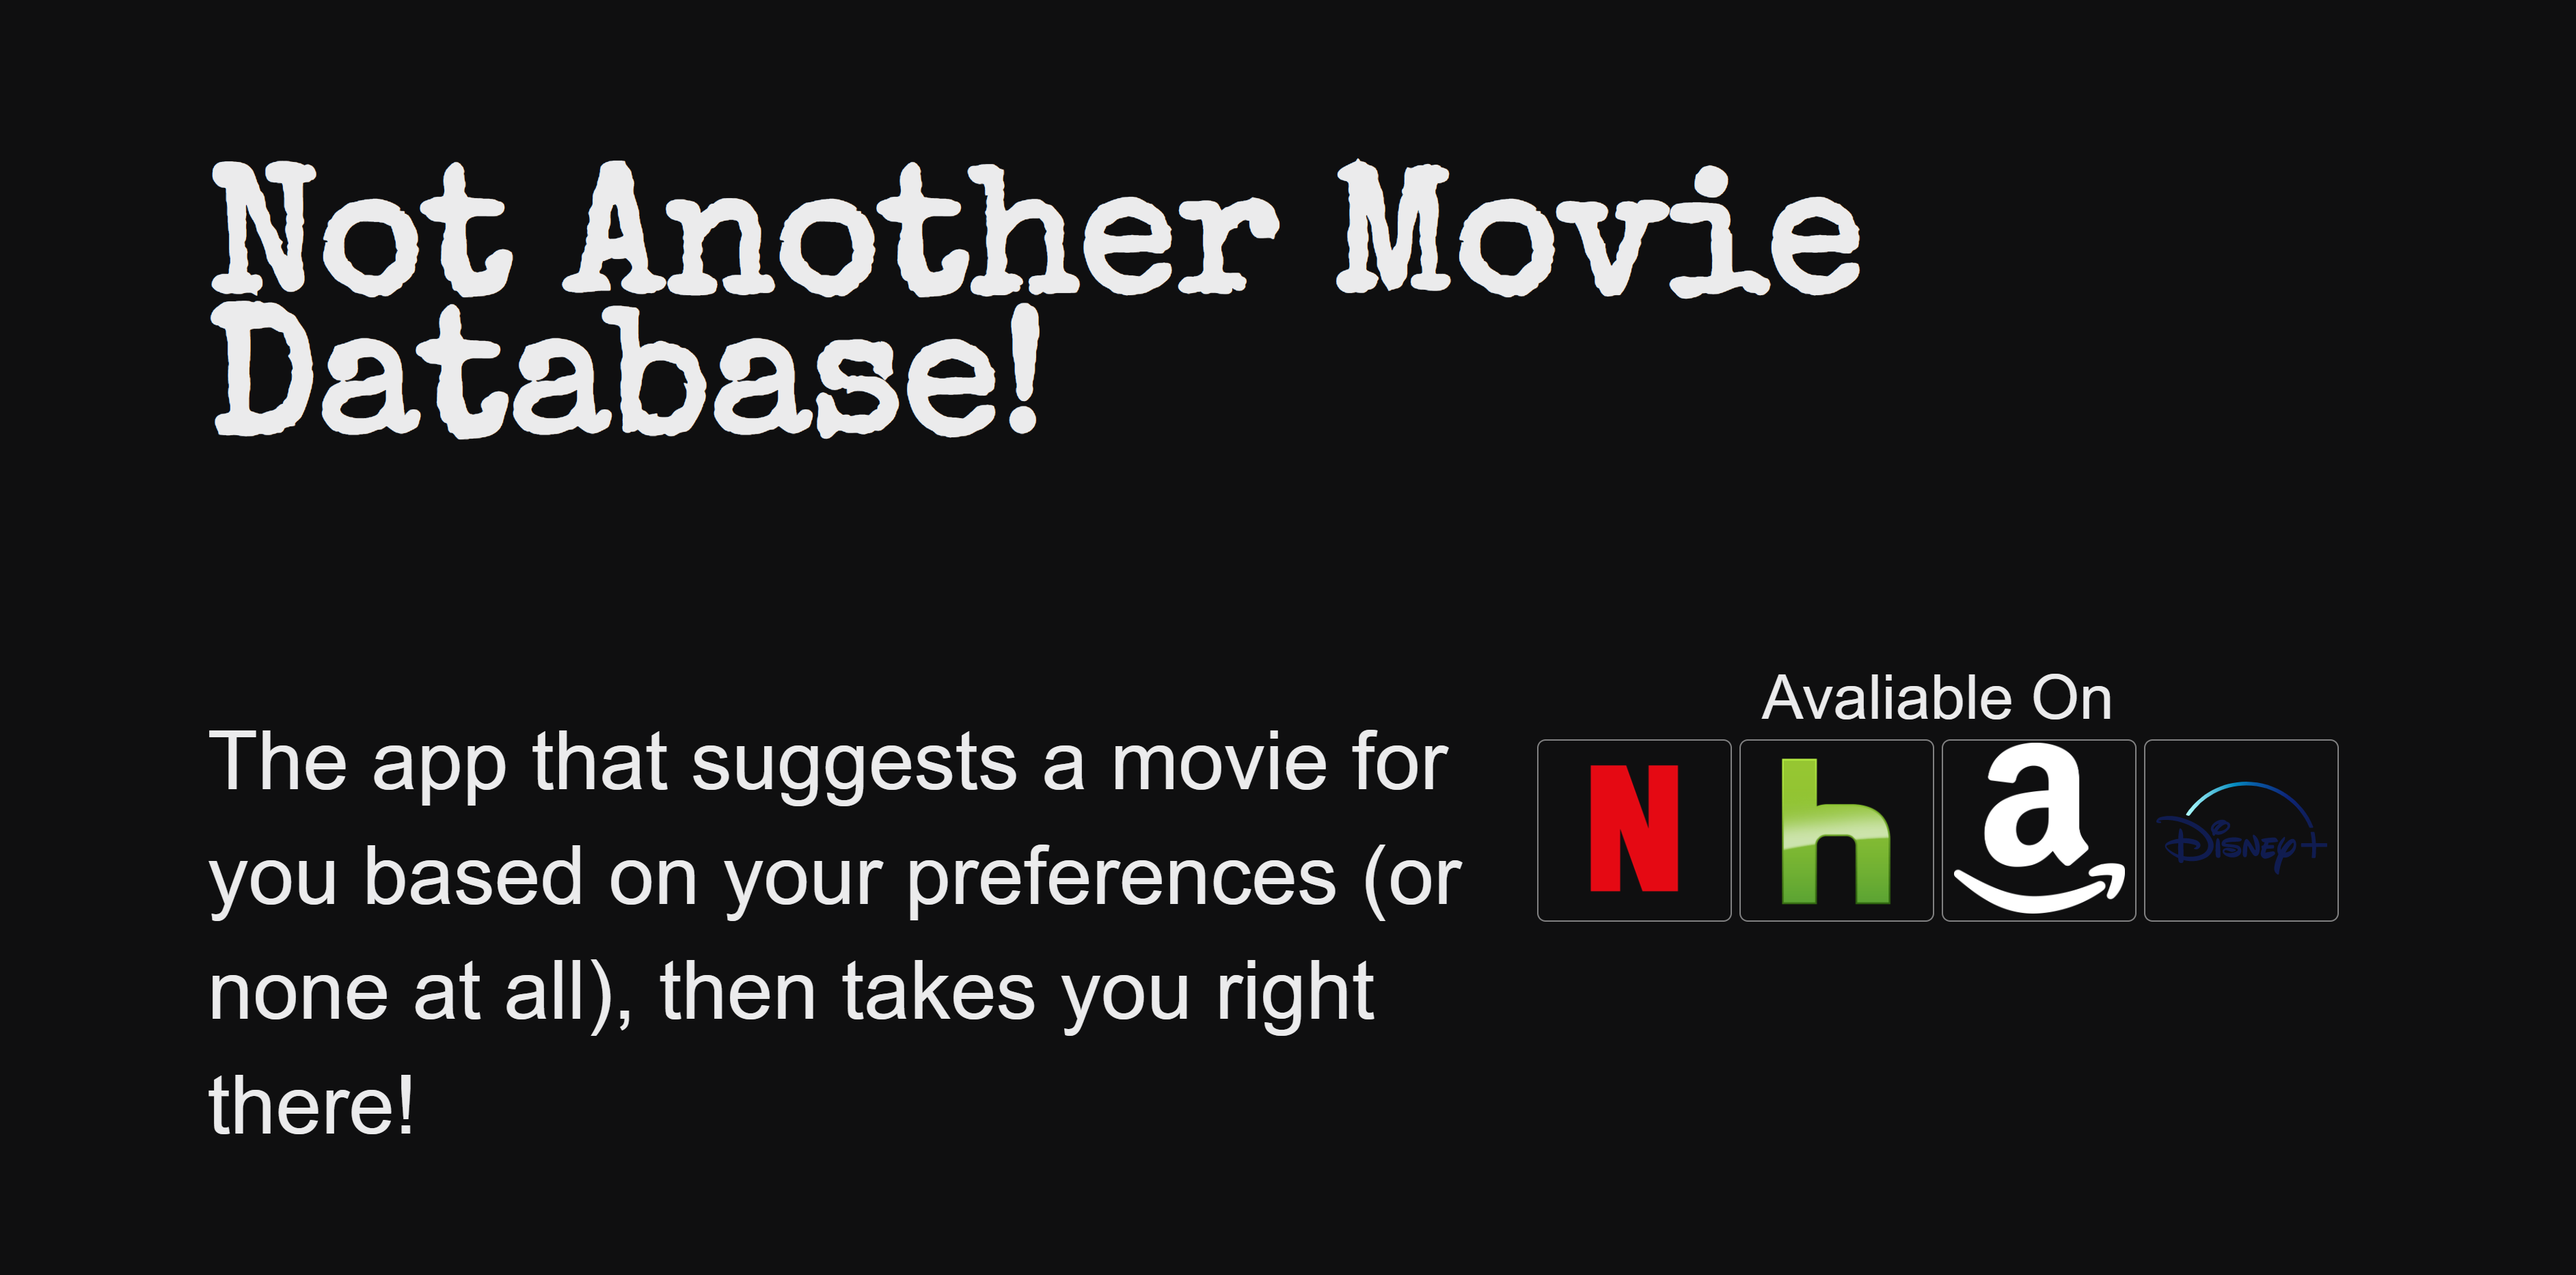
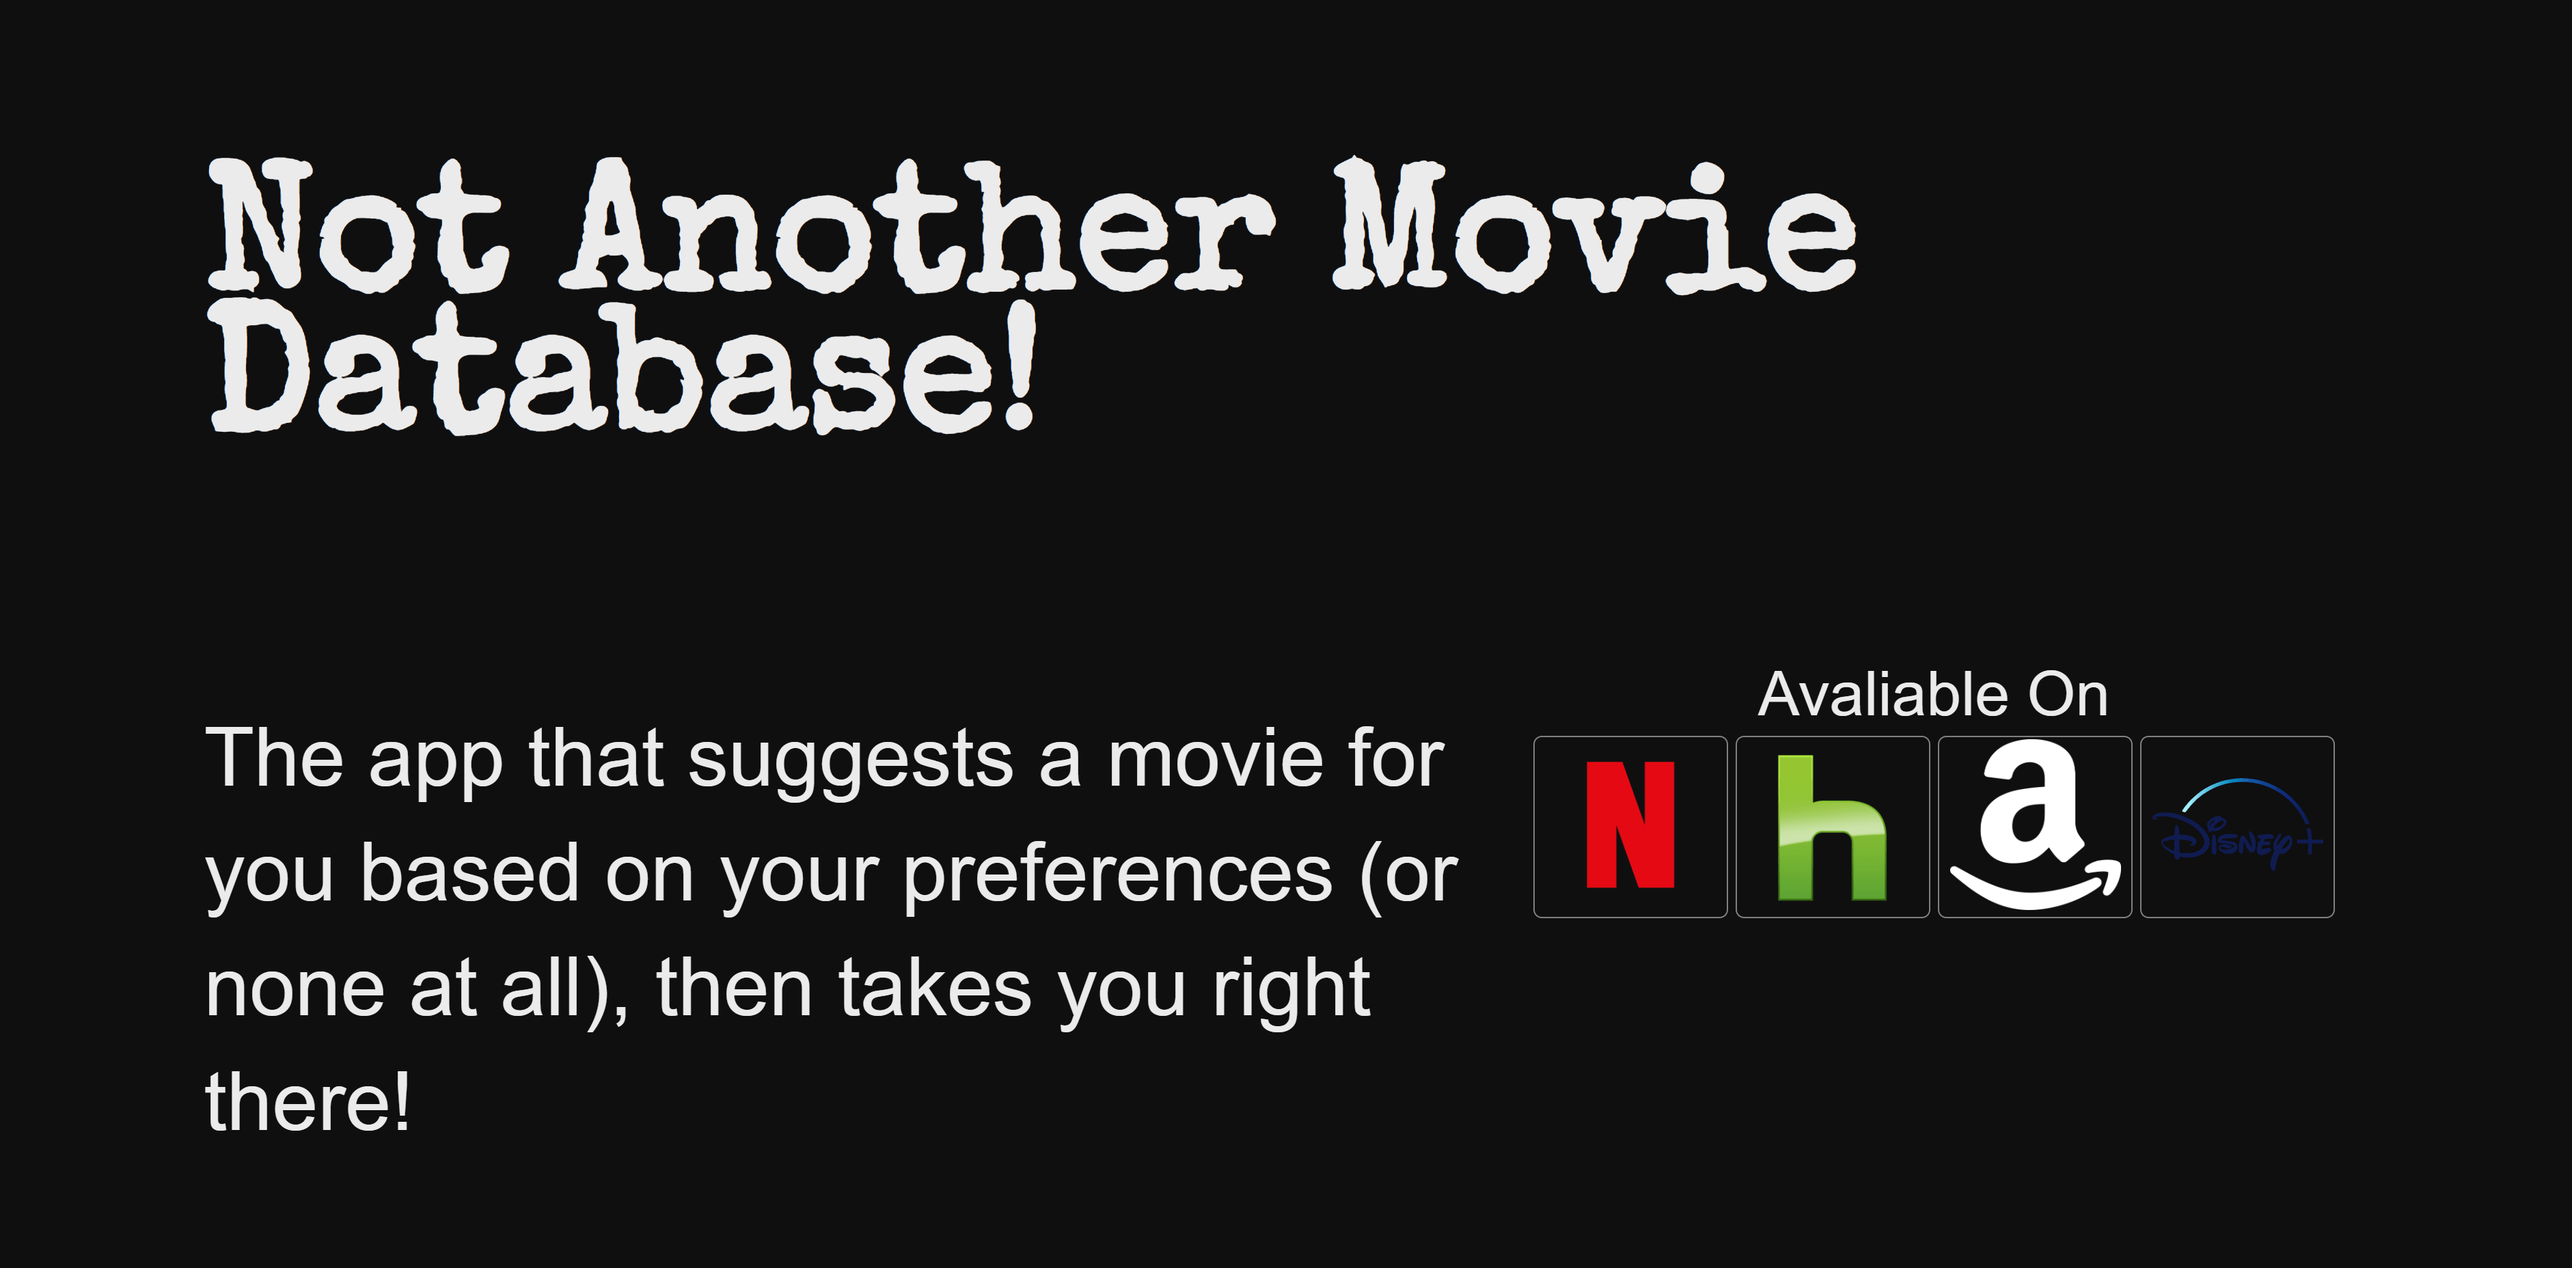
styling photos and hover

diff --git a/components/imageCard.js b/components/imageCard.js
@@ -4,19 +4,22 @@ import Card from '@material-ui/core/Card';
 import CardActionArea from '@material-ui/core/CardActionArea';
 import Grid from '@material-ui/core/Grid';
 import CardMedia from '@material-ui/core/CardMedia';
+import { Typography } from '@material-ui/core';
 
-import Typography from '@material-ui/core/Typography';
-import CardContent from '@material-ui/core/CardContent';
+// import Typography from '@material-ui/core/Typography';
+// import CardContent from '@material-ui/core/CardContent';
 
 const useStyles = makeStyles({
     img: {
         maxWidth: "100%",
-        border: "white"
+        border: "white",
+        objectFit: "cover"
     },
-
-    // CardContent: {
-    //     textAlign: "center",
-    // }
+    hoverText: {
+        color: "white",
+        textAlign: "center",
+        top: "50%"
+    }
 });
   
 export default function imageCard(props) {
@@ -26,27 +29,26 @@ export default function imageCard(props) {
     return (
         <>
             <Grid item sm={6}>
-                <Card className={classes.img} square>
-                    <CardActionArea>
+                <Card square>
+                    <CardActionArea className="picContainer">
                         <a href={props.link}>
-                        <CardMedia
-                            component="img"
-                            alt={props.alt}
-                            image={props.image}
-                            title={props.alt}
-                            
-                        />
-                        </a>
-                        {/* <CardContent>
-                            <Typography gutterBottom variant="h5" component="h2">
-                            Lizard
-                            </Typography>
-                        </CardContent> */}
-                        
+                            <CardMedia
+                                className={classes.img}
+                                component="img"
+                                alt={props.alt}
+                                image={props.image}
+                                title={props.alt}
+                                
+                            />
+                            <div id="hover">
+                                <Typography className={classes.hoverText} varient="h6">
+                                    {props.alt}
+                                </Typography>
+                            </div>
+                        </a>                       
                     </CardActionArea>
                 </Card>
             </Grid>
-
         </>
     );
 }

diff --git a/pages/index.js b/pages/index.js
@@ -6,6 +6,7 @@ import Navbar from '../components/navbar';
 import Footer from '../components/footer';
 import Jumbotron from '../components/jumbotron';
 import ImageCard from '../components/imageCard';
+import { Typography } from '@material-ui/core';
 
 
 const useStyles = makeStyles({
@@ -45,6 +46,8 @@ export default function Home() {
           />
           <ImageCard
           image="/images/newsfeed.png"
+          alt="Oscara, the social media website."
+          link="https://oscara.herokuapp.com/"
           />
         </Grid>
 

diff --git a/components/footer.js b/components/footer.js
@@ -14,7 +14,7 @@ export default function Footer() {
     return(
         <div className={classes.footer}>
             <footer className="footer">
-                <p>DEVELOPED WITH REACT-NEXT-EXPRESS & DESIGNED WITH MATERIAL UI</p>
+                <p>Developed With React-Next-Express & Designed With Material UI</p>
             </footer>
         </div>     
     );

diff --git a/styles/globals.css b/styles/globals.css
@@ -67,6 +67,23 @@ hr {
   font-family: "Times New Roman", Times, serif !important;
 }
 
+#hover {
+  position: absolute;
+  top: 0;
+  bottom: 0;
+  left: 0;
+  right: 0;
+  height: 100%;
+  width: 100%;
+  opacity: 0;
+  transition: 0.5s ease;
+  background-color:#1f5e63;;
+}
+
+.picContainer:hover #hover {
+  opacity: 1;
+}
+
 Footer {
   margin-top: 5%;
 }

diff --git a/components/jumbotron.js b/components/jumbotron.js
@@ -7,8 +7,8 @@ const useStyles = makeStyles({
         fontWeight: "lighter",
         width: '100%',
         textAlign: 'center',
-        marginTop: '18%',
-        marginBottom: '20%',
+        marginTop: '15%',
+        marginBottom: '7%',
         background: 'transparent',
         fontFamily: "Times New Roman, Times, serif",
     },
